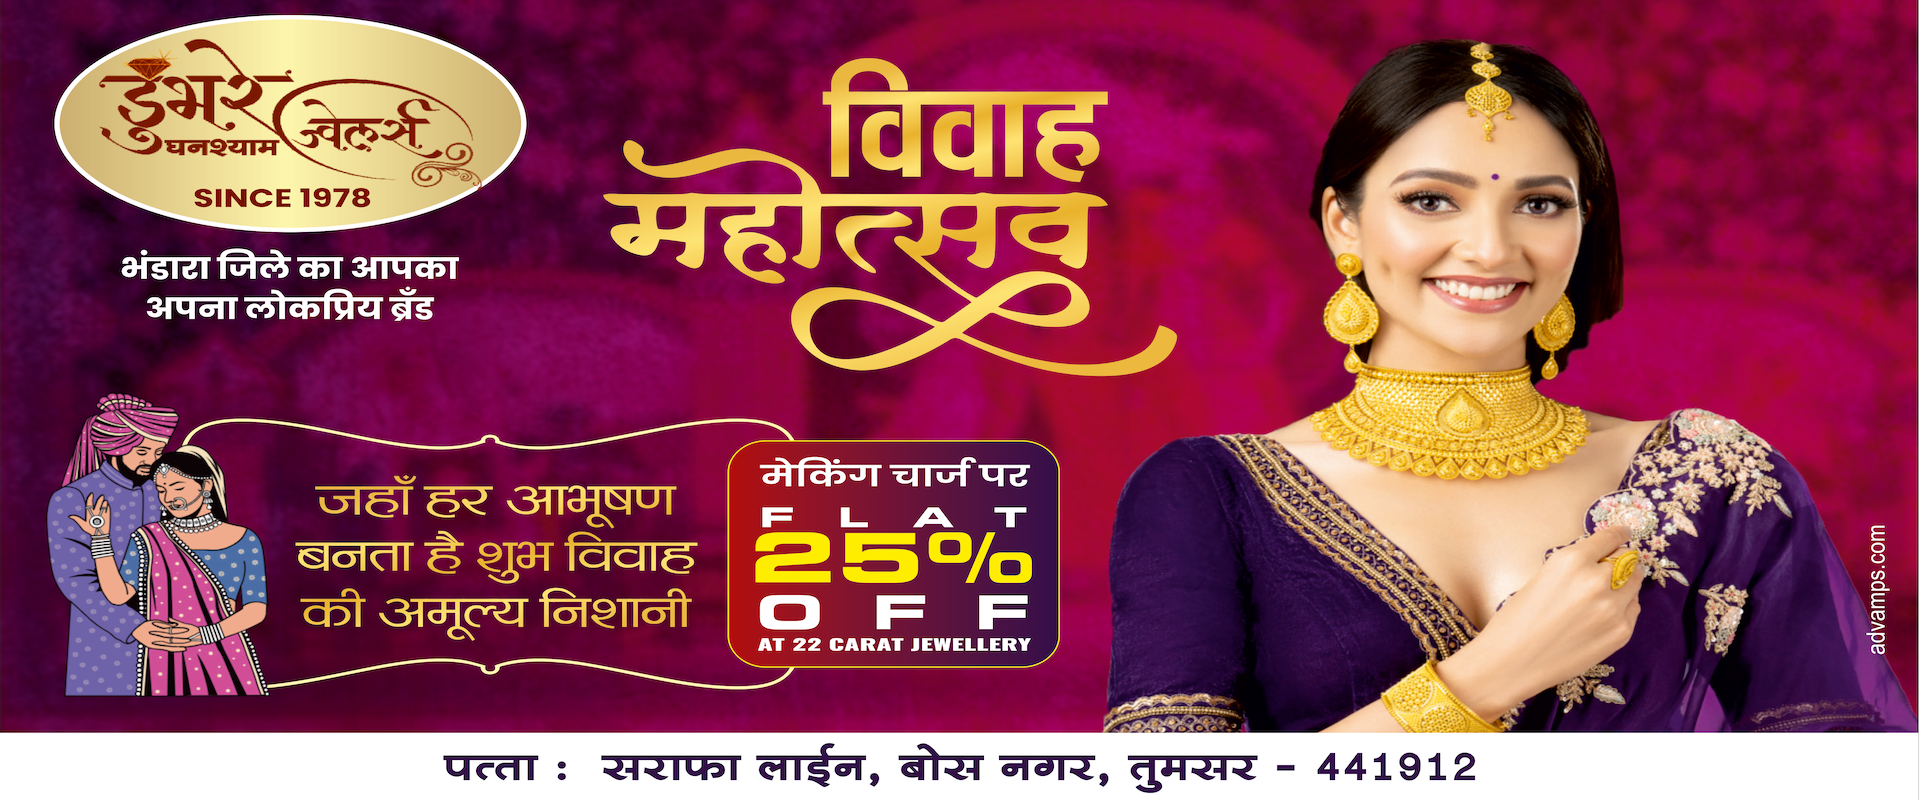
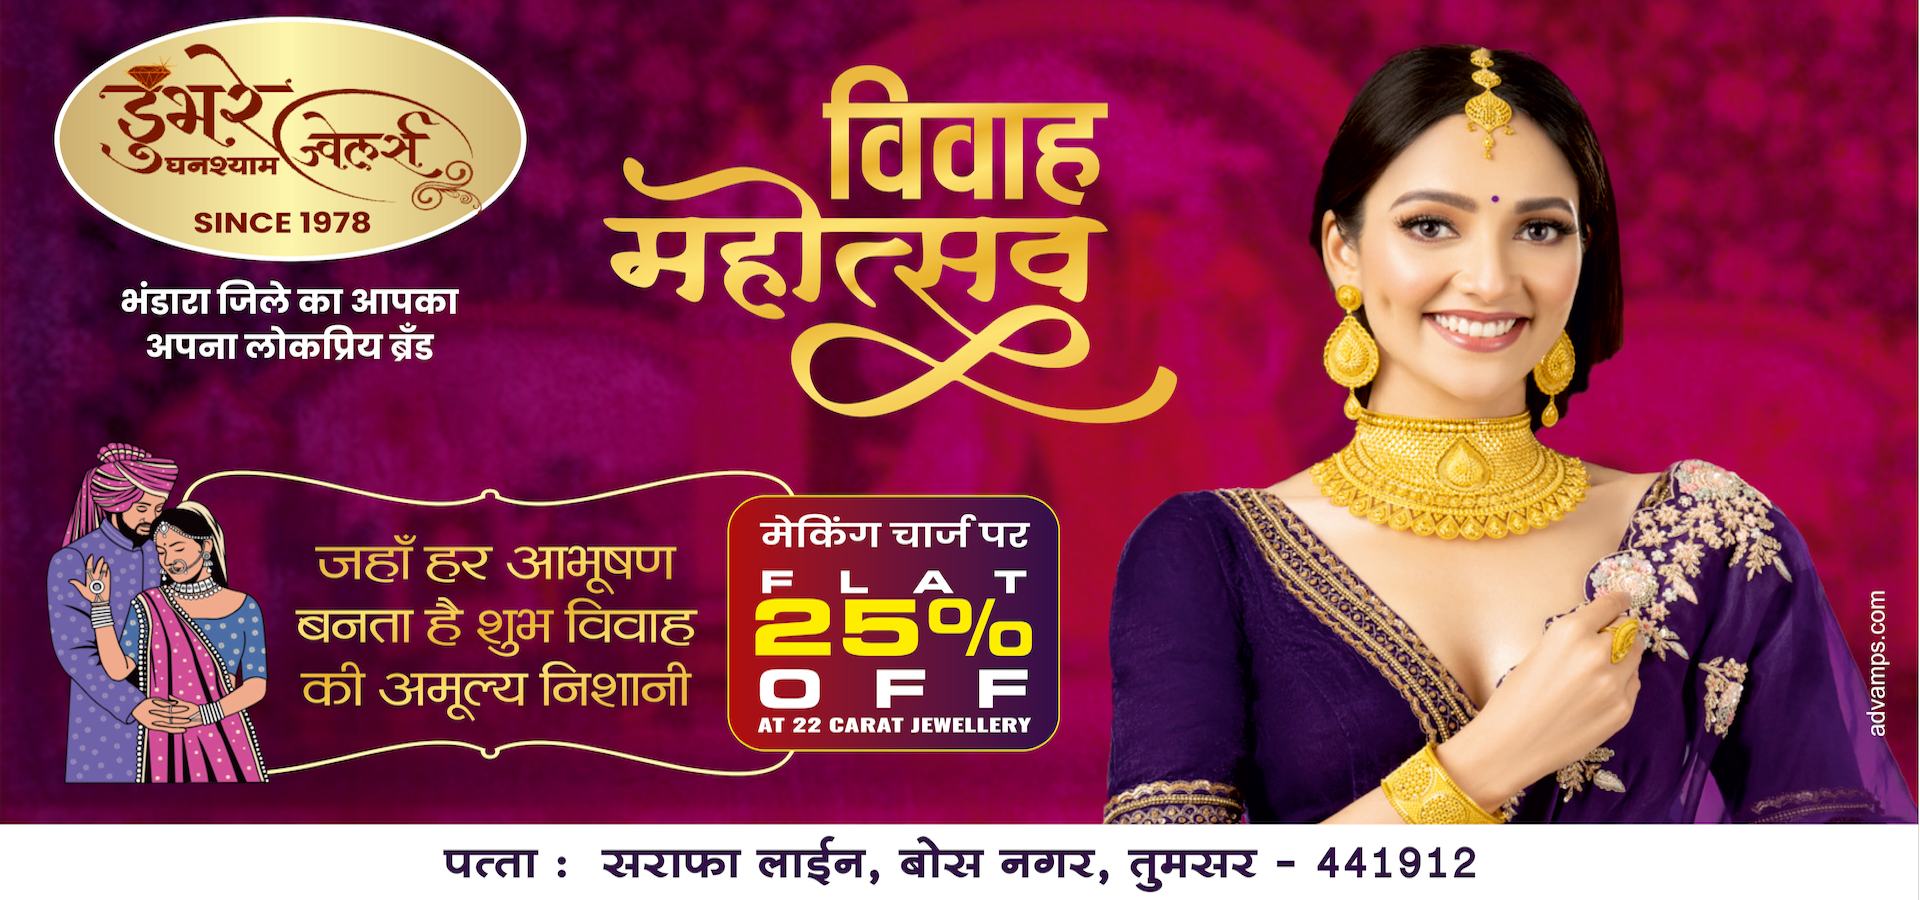
first commit

diff --git a/style/index.css b/style/index.css
@@ -155,7 +155,7 @@
   .banner-slider {
     position: relative;
     width: 100%;
-    height: 65vh;
+    height: 73vh;
     overflow: hidden;
   }
 
